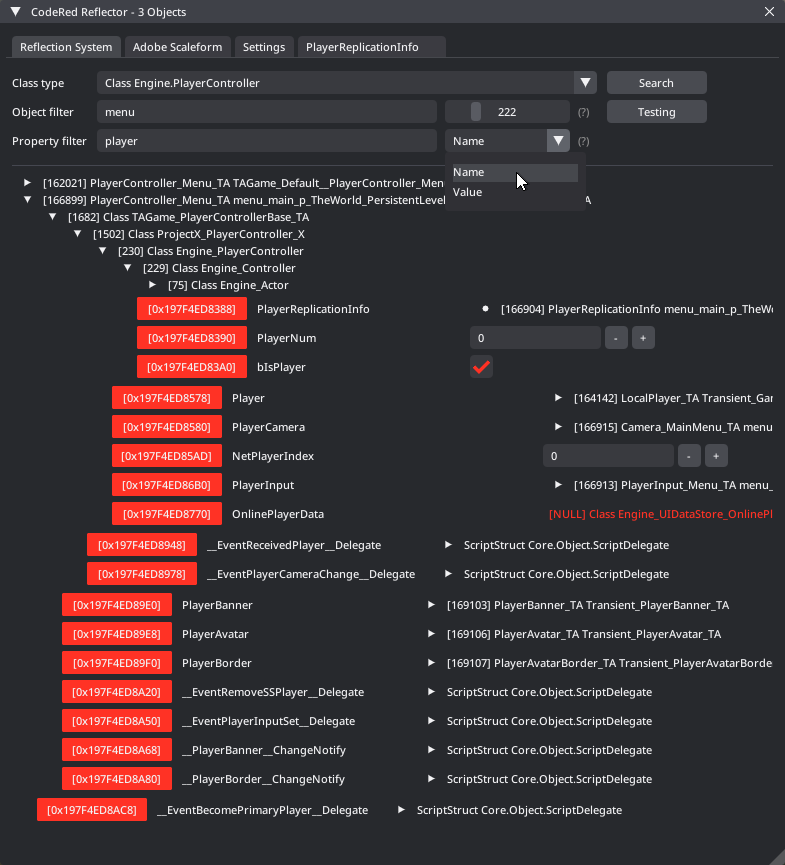
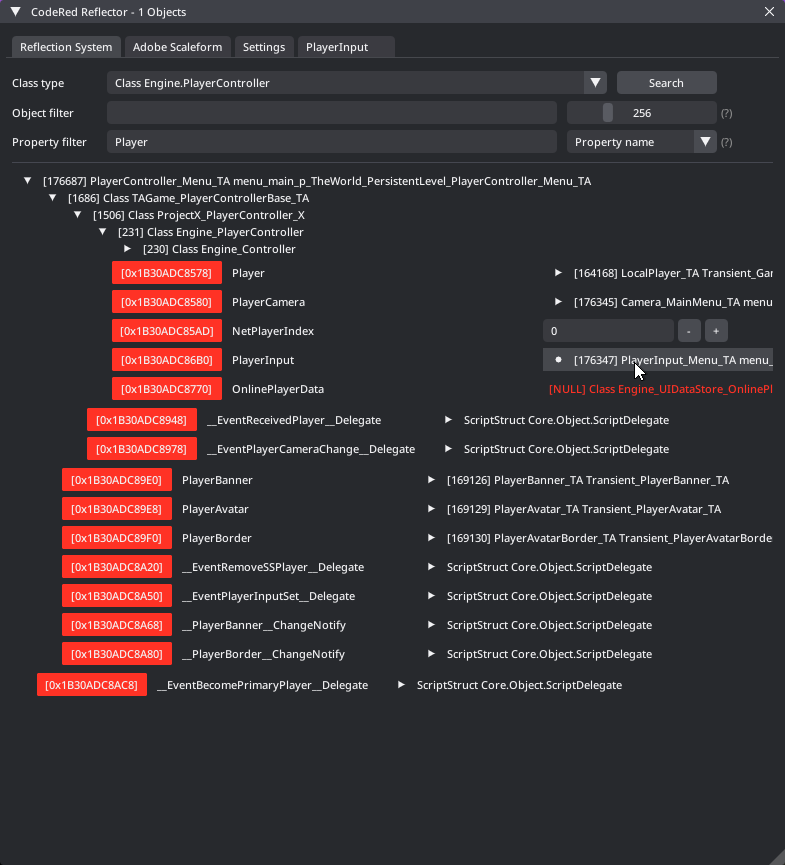
Initial Commit

diff --git a/documentation.html b/documentation.html
@@ -376,6 +376,18 @@
                                         <th class="theme-bg-light"><b>imgui_reflector_array_limit &lt1-512&gt</b></th>
                                         <td>The limit of values to read from and display for TArrays with the reflector window.</td>
                                     </tr>
+                                    <tr>
+                                        <th class="theme-bg-light"><b>imgui_reflector_property_hide &lttrue-false&gt</b></th>
+                                        <td>Hide property location info in the reflector window.</td>
+                                    </tr>
+                                    <tr>
+                                        <th class="theme-bg-light"><b>imgui_reflector_property_offset &lttrue-false&gt</b></th>
+                                        <td>Show property location info as their offset in the reflector window.</td>
+                                    </tr>
+                                                                        <tr>
+                                        <th class="theme-bg-light"><b>imgui_reflector_property_address &lttrue-false&gt</b></th>
+                                        <td>Show property location info as their address in the reflector window.</td>
+                                    </tr>
                                 </tbody>
                             </table>
                         </div>
@@ -1282,7 +1294,11 @@
                                     </tr>
                                     <tr>
                                         <th class="theme-bg-light"><b>interface_reset_inputs_tabbing &lttrue-false&gt</b></th>
-                                        <td>Automatically reset the player input buffer when alt-tabbing.</td>
+                                        <td>Automatically reset the player input buffer after alt-tabbing.</td>
+                                    </tr>
+                                    <tr>
+                                        <th class="theme-bg-light"><b>interface_reset_inputs_resize &lttrue-false&gt</b></th>
+                                        <td>Automatically reset the player input buffer after "IDXGISwapChain::ResizeBuffers" is called.</td>
                                     </tr>
                                     <tr>
                                         <th class="theme-bg-light"><b>interface_autoname_replays &lttrue-false&gt</b></th>

diff --git a/changelog.html b/changelog.html
@@ -53,6 +53,7 @@
 		    <nav id="docs-nav" class="docs-nav navbar">
 			    <ul class="section-items list-unstyled nav flex-column pb-3">
                     <li class="nav-item section-title mt-3"><a class="nav-link scrollto" href="#section-3"><span class="theme-icon-holder me-2"><i class="fas fa-book"></i></span>Module Changelog</a></li>
+                    <li class="nav-item"><a class="nav-link scrollto" href="#item-4-0-1">Version 3.0.1</a></li>
                     <li class="nav-item"><a class="nav-link scrollto" href="#item-4-0-0">Version 3.0.0</a></li>
                     <li class="nav-item"><a class="nav-link scrollto" href="#item-3-9-9">Version 2.9.9</a></li>
                     <li class="nav-item"><a class="nav-link scrollto" href="#item-3-9-8">Version 2.9.8</a></li>
@@ -210,7 +211,18 @@
                 <article class="docs-article" id="section-3">
                     <h1 class="docs-heading">Changelog</h1>
 
-                        <section class="docs-section" id="item-4.0.0">
+                        <section class="docs-section" id="item-4-0-1">
+                        <h2 class="section-heading">Version 3.0.1 (May 1st 2026)</h2>     
+                            <h5>- Added support for the new "USQWordProperty" class in the reflector window.</h5>
+                            <h5>- Added a new setting <code>interface_reset_inputs_resize</code>, which auto resets your input buffer after "IDXGISwapChain::ResizeBuffers" is called.</h5>
+                            <h5>- Added three new settings in the reflector window that let you pick between displaying offsets, addresses, or nothing, for properties.</h5>
+                            <h5>- Fixed a bug that caused the game to freeze until you alt-tabbed if you changed resolutions back and forth in fullscreen mode.</h5>
+                            <h5>- Fixed custom stadium colors not working as of the last Rocket League update, which also resulted in a lag spike that happened when respawning.</h5>
+                            <h5>- Fixed custom car primary and accent colors not working in freeplay, this was also a result of the last Rocket League update.</h5>
+                            <h5>- Fixed custom boost meter options not applying when your car reset in custom training packs.</h5>
+                        </section>
+
+                        <section class="docs-section" id="item-4-0-0">
                         <h2 class="section-heading">Version 3.0.0 (April 28th 2026)</h2>                  
                             <h5>- Easy Anti-Cheat has been added, CodeRed will only work with the "-noeac" option from here on out.</h5>
                             <h5>- Increased the max limit of the <code>imgui_reflector_object_limit</code> setting from "256" to "1024" because why not.</h5>